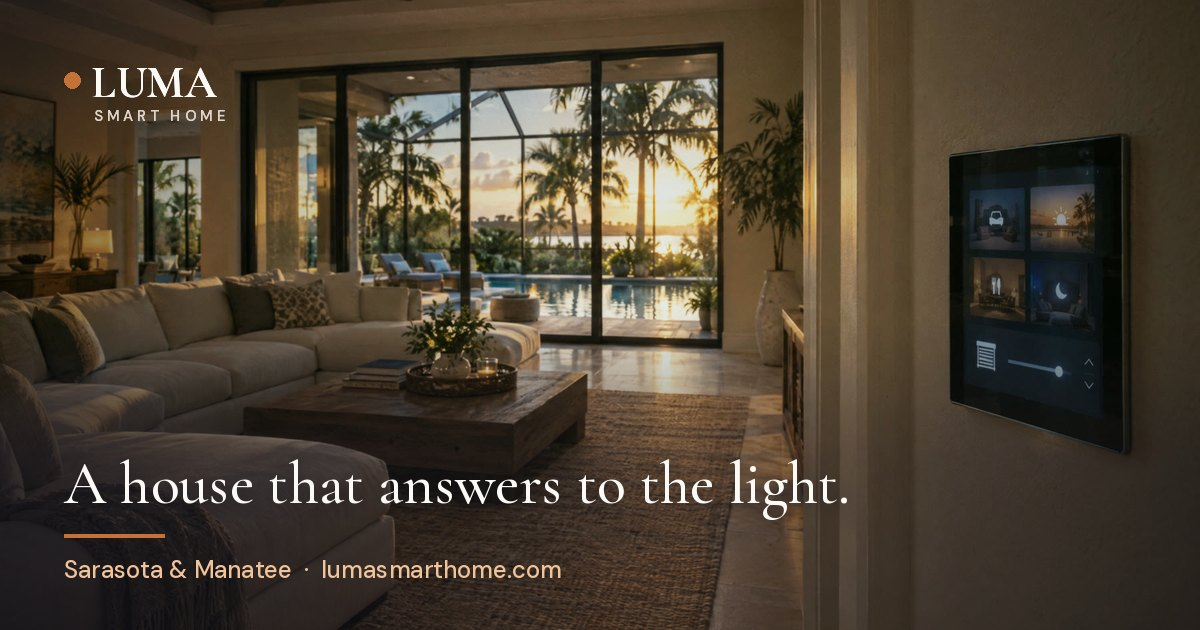
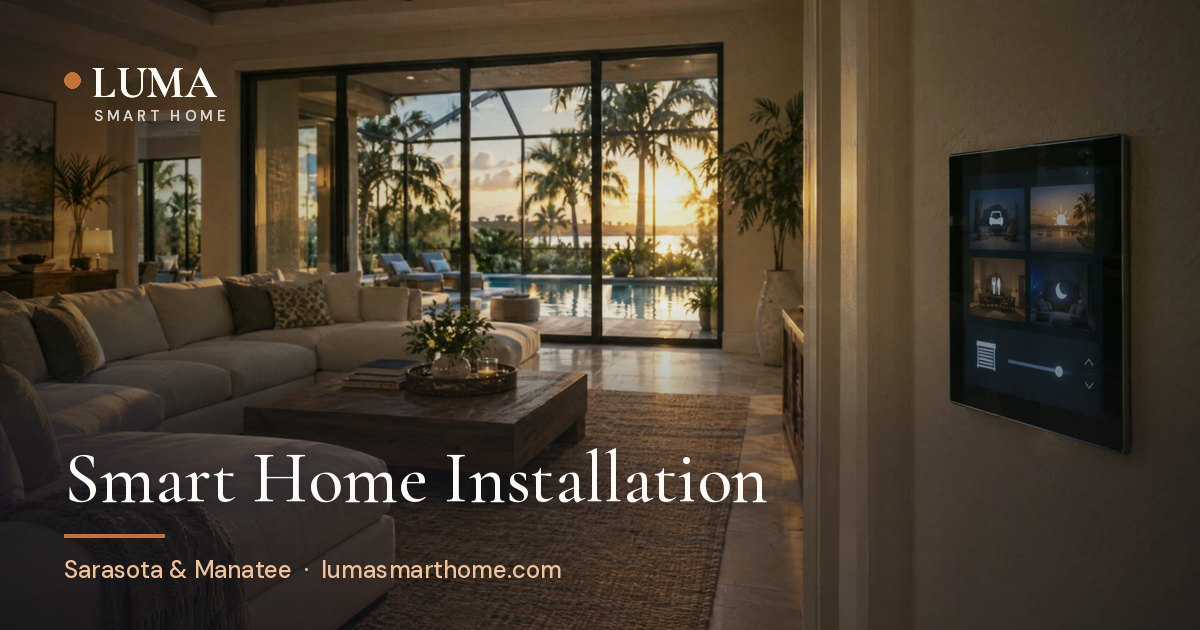
Home link preview: LUMA Smart Home Installation title and card

Changed region(s): [[0.0617, 0.6937, 0.7092, 0.8143]]

diff --git a/index.html b/index.html
@@ -17,16 +17,16 @@
 <meta property="og:site_name" content="LUMA Smart Home">
 <meta property="og:type" content="website">
 <meta property="og:locale" content="en_US">
-<meta property="og:title" content="LUMA Smart Home — Sarasota &amp; Manatee">
-<meta property="og:description" content="Lighting, shades, audio, security and Wi-Fi, designed and installed for homes on Florida's Gulf Coast.">
+<meta property="og:title" content="LUMA Smart Home Installation | Sarasota, FL">
+<meta property="og:description" content="Smart home installation in Sarasota &amp; Manatee: lighting control, motorized shades, audio, security and Wi-Fi.">
 <meta property="og:url" content="https://lumasmarthome.com/">
 <meta property="og:image" content="https://lumasmarthome.com/assets/og/home.jpg">
 <meta property="og:image:width" content="1200">
 <meta property="og:image:height" content="630">
 <meta property="og:image:alt" content="A house that answers to the light.">
 <meta name="twitter:card" content="summary_large_image">
-<meta name="twitter:title" content="LUMA Smart Home — Sarasota &amp; Manatee">
-<meta name="twitter:description" content="Lighting, shades, audio, security and Wi-Fi, designed and installed for homes on Florida's Gulf Coast.">
+<meta name="twitter:title" content="LUMA Smart Home Installation | Sarasota, FL">
+<meta name="twitter:description" content="Smart home installation in Sarasota &amp; Manatee: lighting control, motorized shades, audio, security and Wi-Fi.">
 <meta name="twitter:image" content="https://lumasmarthome.com/assets/og/home.jpg">
 <link rel="icon" type="image/svg+xml" href="/assets/favicon.svg">
 <link rel="sitemap" type="application/xml" href="/sitemap.xml">

diff --git a/scripts/generate-seo-pages.py b/scripts/generate-seo-pages.py
@@ -36,8 +36,8 @@ ROUTES: list[dict] = [
         "title": "LUMA Smart Home | Lighting, Shades & AV in Sarasota, FL",
         "description": "LUMA designs and installs lighting control, motorized shades, security, audio, and Wi-Fi for fine homes on Florida's Gulf Coast. Serving Sarasota & Manatee Counties.",
         "h1": "A house that answers to the light.",
-        "og_title": "LUMA Smart Home — Sarasota & Manatee",
-        "og_description": "Lighting, shades, audio, security and Wi-Fi, designed and installed for homes on Florida's Gulf Coast.",
+        "og_title": "LUMA Smart Home Installation | Sarasota, FL",
+        "og_description": "Smart home installation in Sarasota & Manatee: lighting control, motorized shades, audio, security and Wi-Fi.",
         "og_image": "/assets/og/home.jpg",
         "priority": 1.0,
         "changefreq": "weekly",

diff --git a/scripts/make-og.py b/scripts/make-og.py
@@ -18,7 +18,7 @@ PEACH = (240, 195, 155)
 
 CARDS = {
     # route id: (photo, headline, focus x 0..1)
-    "home": ("assets/photos/hero-automation.jpg", "A house that answers to the light.", 0.55),
+    "home": ("assets/photos/hero-automation.jpg", "Smart Home Installation", 0.55),
     "lighting": ("assets/photos/live/sc-l-party.jpg", "Your fixtures. Our controls.", 0.5),
     "shading": ("assets/photos/live/sc-s-wake.jpg", "Three layers of shade.", 0.5),
     "theaters": ("assets/photos/theater-cinema.jpg", "Designed for sound, not retrofitted.", 0.5),
